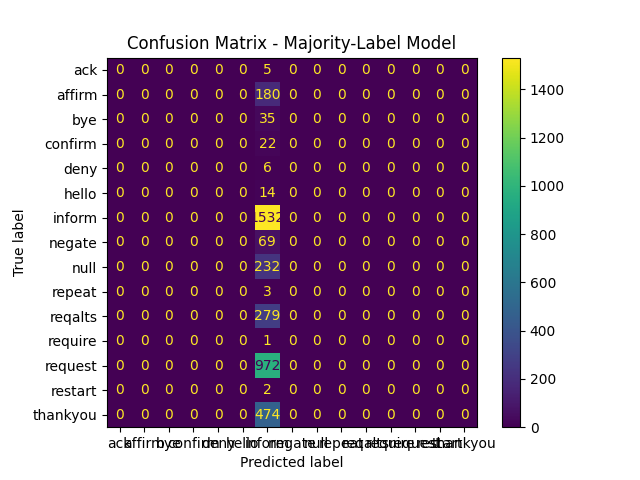
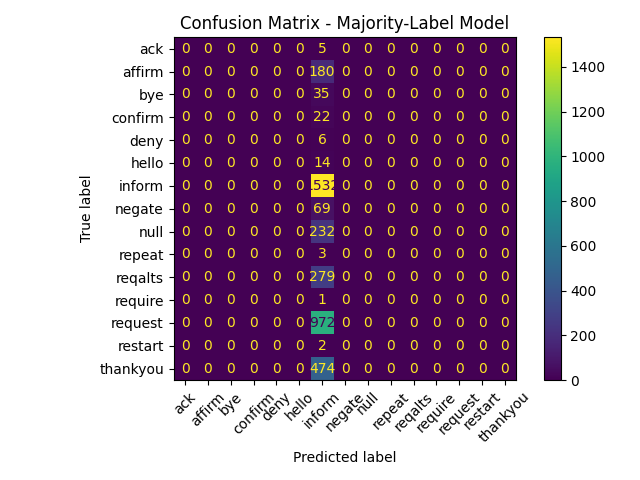
fixed confusion matrix display

diff --git a/main.py b/main.py
@@ -137,10 +137,14 @@ def save_confusion_matrix(y_test, y_pred, model_name):
 
     cm = confusion_matrix(y_test, y_pred)
     disp = ConfusionMatrixDisplay(confusion_matrix=cm, display_labels=labels)
-    disp.plot()
+    # disp.plot()
+    disp.plot(xticks_rotation=45)  # Rotate x-axis labels by 45 degrees
 
     # Add title with the model name
     plt.title(f"Confusion Matrix - {model_name}")
+
+    # Adjust layout to prevent labels from being cut off
+    plt.tight_layout()
 
     # Create the 'figures' directory if it doesn't exist
     figures_dir = "figures"
